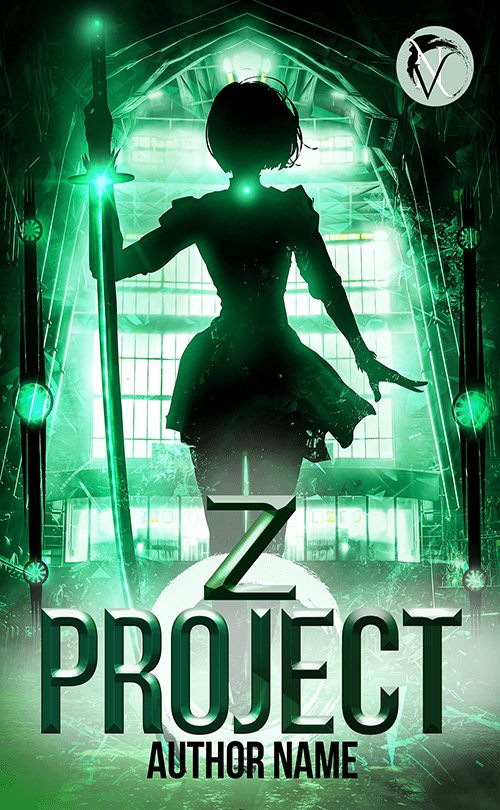
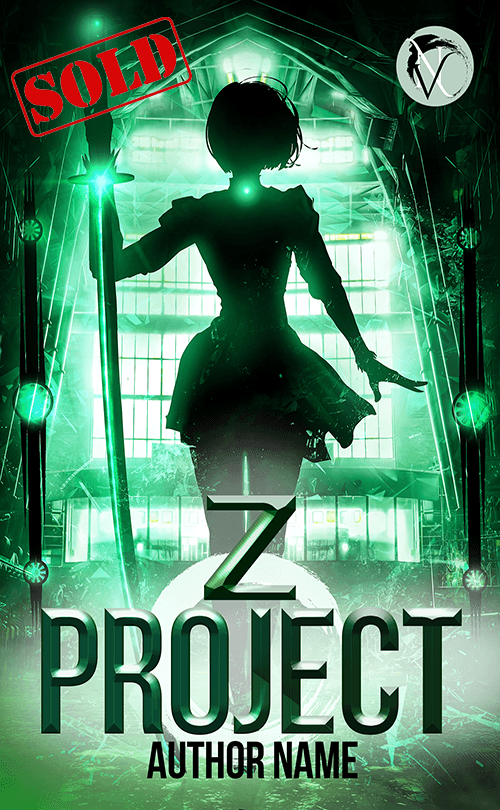
new

Changed region(s): [[0.0, 0.0, 0.39, 0.1852]]

diff --git a/works/_premades/wrathofthealpha.md b/works/_premades/wrathofthealpha.md
@@ -1,0 +1,9 @@
+--- 
+title: "Wrath of the Alpha"
+description:
+price: "SOLD"
+category: 
+images: 
+    - /assets/img/wrathofthealpha.png
+order: 545
+---

diff --git a/works/_premades/thelastbattle.md b/works/_premades/thelastbattle.md
@@ -1,0 +1,9 @@
+--- 
+title: "The Last Battle"
+description:
+price: "SOLD"
+category: 
+images: 
+    - /assets/img/thelastbattle.png
+order: 544
+---

diff --git a/works/_premades/commander.md b/works/_premades/commander.md
@@ -1,0 +1,9 @@
+--- 
+title: "The Last Commander"
+description:
+price: "SOLD"
+category: 
+images: 
+    - /assets/img/commander.png
+order: 543
+---

diff --git a/works/_premades/void.md b/works/_premades/void.md
@@ -1,0 +1,9 @@
+--- 
+title: "Rising from the Void"
+description:
+price: "SOLD"
+category: 
+images: 
+    - /assets/img/void.png
+order: 537
+---

diff --git a/works/_premades/catwithwitch.md b/works/_premades/catwithwitch.md
@@ -1,0 +1,9 @@
+--- 
+title: "The Witch"
+description:
+price: "60.00"
+category: 
+images: 
+    - /assets/img/catwithwitch.png
+order: 539
+---

diff --git a/works/_premades/hunter.md b/works/_premades/hunter.md
@@ -1,0 +1,9 @@
+--- 
+title: "Hunter's Secter"
+description:
+price: "SOLD"
+category: 
+images: 
+    - /assets/img/hunter.png
+order: 536
+---

diff --git a/works/_premades/littlesin.md b/works/_premades/littlesin.md
@@ -1,0 +1,9 @@
+--- 
+title: "His little sin"
+description:
+price: "19.99"
+category: 
+images: 
+    - /assets/img/sin.png
+order: 541
+---

diff --git a/works/_premades/arrested.md b/works/_premades/arrested.md
@@ -1,0 +1,9 @@
+--- 
+title: "Arrested"
+description:
+price: "SOLD"
+category: 
+images: 
+    - /assets/img/arrested.png
+order: 540
+---

diff --git a/works/_premades/goddes.md b/works/_premades/goddes.md
@@ -1,0 +1,9 @@
+--- 
+title: "Goddess"
+description:
+price: "SOLD"
+category: 
+images: 
+    - /assets/img/Goddes.png
+order: 538
+---
